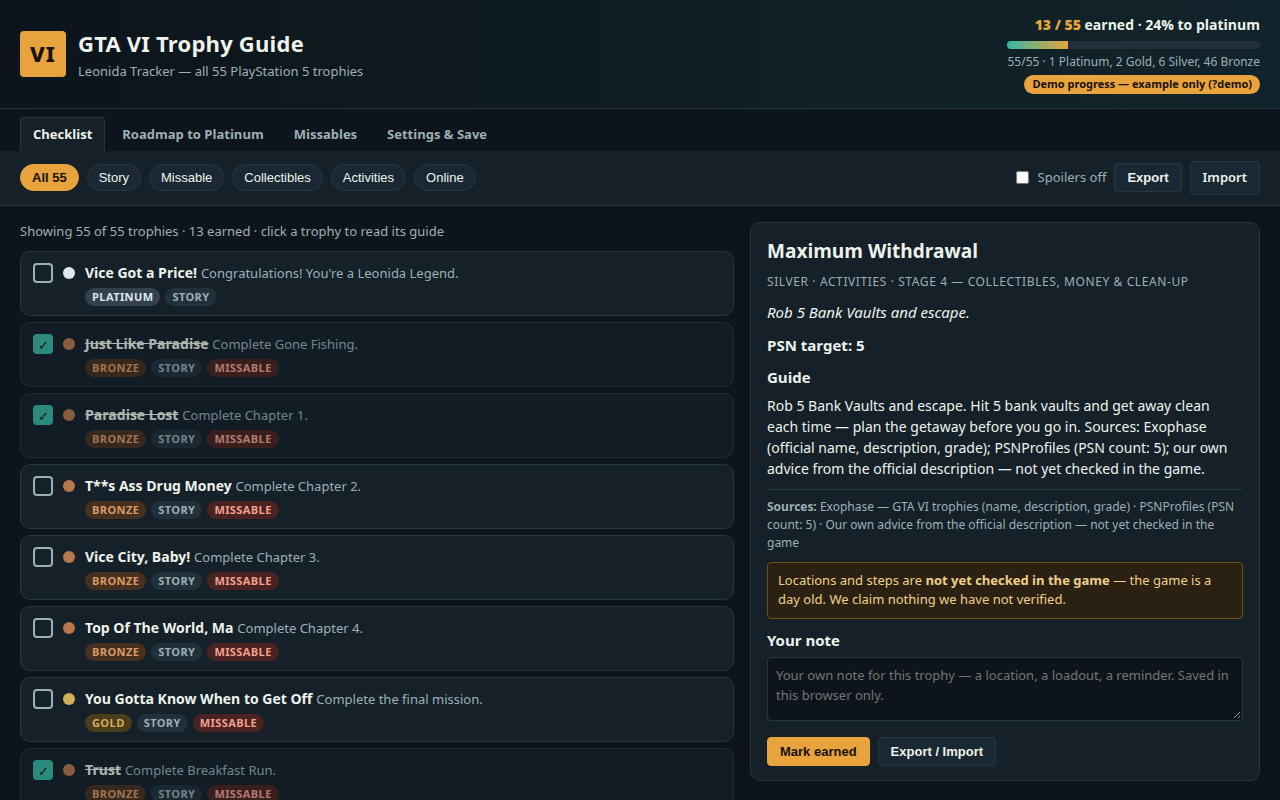
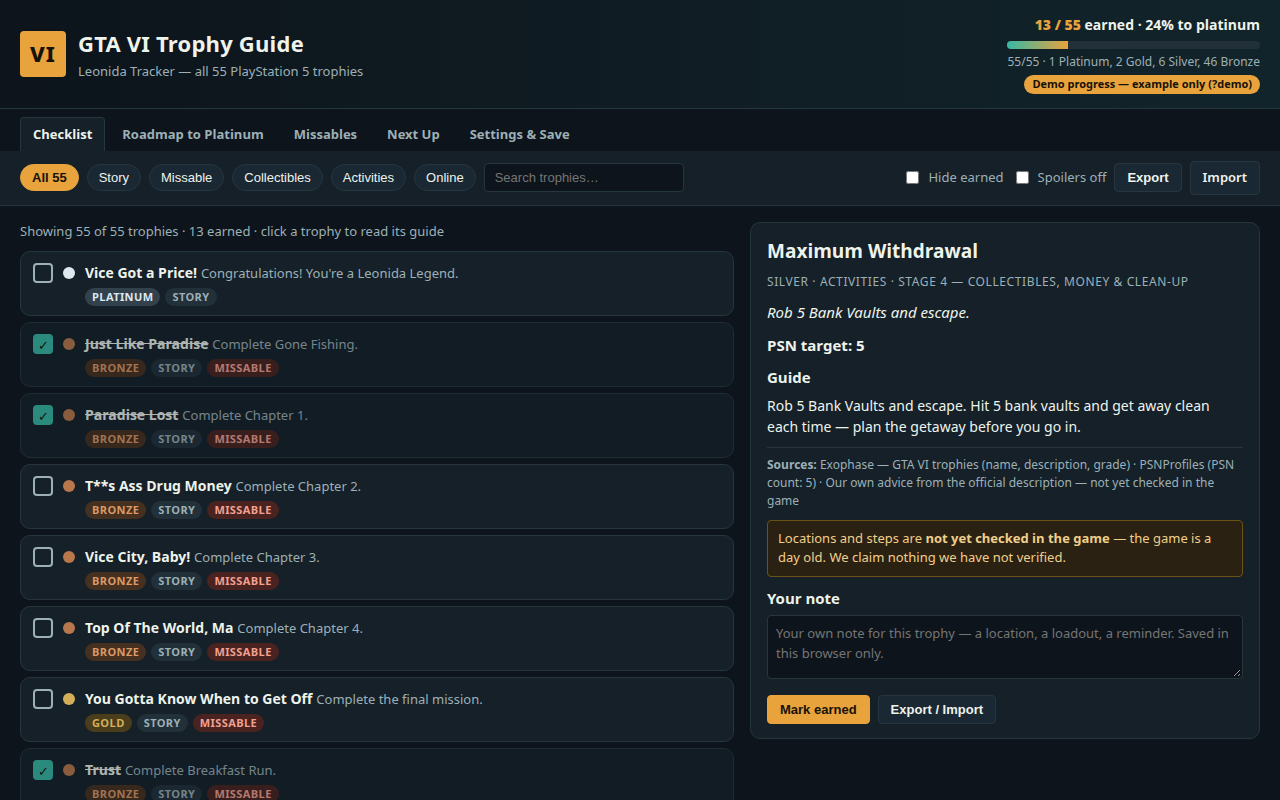
V5: search + Next-up planner + spoiler everywhere + guide polish
V3: detail pane shows guide once (inline Sources tail trimmed, dedicated
Sources line kept); spoiler masking applied to Missables rows and Roadmap
chips, not only the checklist.
V4: live search, Hide earned toggle, Next Up planner (roadmap order,
missable-first in stage) with per-stage progress.
V5: screenshots retaken for the final views (cover with search, missables
with spoiler on, detail without duplicated Sources); first load 14.8 KB
gzip-9.

diff --git a/app/js/main.js b/app/js/main.js
@@ -3,7 +3,9 @@
 import { loadTrophies } from './data.js';
 import { isDemo, loadNotes, loadProgress, loadSettings, saveNote, saveProgress, saveSettings } from './store.js';
 import { renderChecklistView } from './views/checklist.js';
+import { escapeHtml } from './views/detail.js';
 import { renderMissablesView } from './views/missables.js';
+import { renderPlannerView } from './views/planner.js';
 import { renderRoadmapView } from './views/roadmap.js';
 import { bindSettingsView, renderSettingsView } from './views/settings.js';
 
@@ -11,6 +13,7 @@ const NAV = [
   { hash: '#/', label: 'Checklist' },
   { hash: '#/roadmap', label: 'Roadmap to Platinum' },
   { hash: '#/missables', label: 'Missables' },
+  { hash: '#/planner', label: 'Next Up' },
   { hash: '#/settings', label: 'Settings & Save' },
 ];
 
@@ -45,6 +48,7 @@ function routeFromHash() {
   }
   if (hash === '#/roadmap') return 'roadmap';
   if (hash === '#/missables') return 'missables';
+  if (hash === '#/planner') return 'planner';
   if (hash === '#/settings') return 'settings';
   return 'checklist';
 }
@@ -69,6 +73,7 @@ function renderNav() {
     const active = (ctx.route === 'checklist' && item.hash === '#/')
       || (ctx.route === 'roadmap' && item.hash === '#/roadmap')
       || (ctx.route === 'missables' && item.hash === '#/missables')
+      || (ctx.route === 'planner' && item.hash === '#/planner')
       || (ctx.route === 'settings' && item.hash === '#/settings');
     return `<a href="${item.hash}" class="${active ? 'active' : ''}">${item.label}</a>`;
   }).join('');
@@ -83,7 +88,9 @@ function renderToolbar() {
   const chips = KINDS.map((k) => `<button class="chip ${k.key === 'missable' ? 'missable' : ''}" data-kind="${k.key}" aria-pressed="${ctx.settings.kind === k.key}">${k.label}</button>`).join('');
   bar.innerHTML = `
     ${chips}
+    <input class="search" id="search-box" type="search" placeholder="Search trophies…" value="${escapeHtml(ctx.settings.query || '')}" aria-label="Search trophies">
     <span class="spacer"></span>
+    <label class="toggle"><input type="checkbox" id="hide-earned" ${ctx.settings.hideEarned ? 'checked' : ''}> Hide earned</label>
     <label class="toggle"><input type="checkbox" id="spoiler-toggle" ${ctx.settings.spoiler ? 'checked' : ''}> Spoilers off</label>
     <button class="btn" id="export-btn">Export</button>
     <label class="btn" for="import-file" style="cursor:pointer">Import</label>
@@ -94,6 +101,24 @@ function renderToolbar() {
       ctx.onSettingsChange();
       render();
     });
+  });
+  const searchBox = document.getElementById('search-box');
+  searchBox.addEventListener('input', () => {
+    ctx.settings.query = searchBox.value;
+    saveSettings(ctx.settings);
+    render();
+    // Keep focus in the search box across the re-render.
+    const again = document.getElementById('search-box');
+    if (again) {
+      again.focus();
+      again.setSelectionRange(again.value.length, again.value.length);
+    }
+  });
+  const hideEarned = document.getElementById('hide-earned');
+  hideEarned.addEventListener('change', () => {
+    ctx.settings.hideEarned = hideEarned.checked;
+    ctx.onSettingsChange();
+    render();
   });
   const spoiler = document.getElementById('spoiler-toggle');
   spoiler.addEventListener('change', () => {
@@ -129,6 +154,7 @@ function render() {
   const view = document.getElementById('view');
   if (ctx.route === 'roadmap') view.innerHTML = renderRoadmapView(ctx);
   else if (ctx.route === 'missables') view.innerHTML = renderMissablesView(ctx);
+  else if (ctx.route === 'planner') view.innerHTML = renderPlannerView(ctx);
   else if (ctx.route === 'settings') {
     view.innerHTML = renderSettingsView(ctx);
     bindSettingsView(ctx, render);

diff --git a/app/js/views/planner.js b/app/js/views/planner.js
@@ -1,0 +1,49 @@
+// Next-up planner: what to do next, in roadmap order. Missable trophies come
+// first inside their stage — they are the ones that cannot wait.
+import { STAGES } from '../data.js';
+import { displayShortName } from '../filters.js';
+import { escapeHtml } from './detail.js';
+
+export function nextUp(trophies, earned, count = 5) {
+  const remaining = trophies.filter((t) => !earned.has(t.id));
+  remaining.sort((a, b) => {
+    if (a.stage !== b.stage) return a.stage - b.stage;
+    if (a.missable !== b.missable) return a.missable ? -1 : 1;
+    return a.id - b.id;
+  });
+  return remaining.slice(0, count);
+}
+
+export function renderPlannerView(ctx) {
+  const { trophies, earned, settings } = ctx;
+  const picks = nextUp(trophies, earned, 5);
+  const first = picks[0];
+  const rows = picks.map((t, i) => `
+    <button class="row" data-select="${t.id}">
+      <span class="check" aria-hidden="true">${i === 0 ? '▶' : ''}</span>
+      <span class="medal ${t.grade}" aria-hidden="true"></span>
+      <span class="body">
+        <span class="name">${escapeHtml(displayShortName(t, settings, earned))}</span>
+        <span class="desc">${escapeHtml(t.description)}</span>
+        <span class="tags">
+          <span class="tag grade-${t.grade}">${t.grade}</span>
+          <span class="tag">${t.kind}</span>
+          <span class="tag">Stage ${t.stage}</span>
+          ${t.missable ? '<span class="tag miss">Missable — do now</span>' : ''}
+        </span>
+      </span>
+    </button>`).join('');
+  const stageLines = STAGES.map((stage) => {
+    const inStage = trophies.filter((t) => t.stage === stage.n);
+    const done = inStage.filter((t) => earned.has(t.id)).length;
+    const pct = inStage.length ? Math.round((done / inStage.length) * 100) : 0;
+    return `<div class="card"><div class="stage-head"><h3>${escapeHtml(stage.title)}</h3><span><strong>${done}/${inStage.length}</strong> · ${pct}%</span></div><div class="stage-bar"><i style="width:${pct}%"></i></div></div>`;
+  }).join('');
+  return `
+    <h2>Next Up — your planner</h2>
+    ${first ? `<p class="nextup">Do next: <b>${escapeHtml(displayShortName(first, settings, earned))}</b> — ${escapeHtml(first.description)}${first.missable ? ' <span class="tag miss">Missable</span>' : ''}</p>` : '<p class="nextup"><b>Platinum earned — every trophy is done.</b></p>'}
+    <p style="color:var(--muted)">In roadmap order, missable trophies first inside each stage. ${earned.size} of 55 earned.</p>
+    <div class="list">${rows || '<p class="empty">Nothing left — platinum is yours.</p>'}</div>
+    <h2 style="margin-top:20px">Roadmap progress</h2>
+    ${stageLines}`;
+}

diff --git a/app/js/views/missables.js b/app/js/views/missables.js
@@ -2,10 +2,11 @@
 // the reason for each. Nothing here is invented: a trophy is missable when its
 // description ties it to a chapter, a named mission, a character strand's final
 // mission, or a one-time choice.
+import { displayDescription, displayName } from '../filters.js';
 import { escapeHtml } from './detail.js';
 
 export function renderMissablesView(ctx) {
-  const { trophies, earned } = ctx;
+  const { trophies, earned, settings } = ctx;
   const missables = trophies.filter((t) => t.missable);
   const done = missables.filter((t) => earned.has(t.id)).length;
   const rows = missables.map((t) => {
@@ -14,8 +15,8 @@ export function renderMissablesView(ctx) {
       <span class="check" aria-hidden="true">${isEarned ? '✓' : ''}</span>
       <span class="medal ${t.grade}" aria-hidden="true"></span>
       <span class="body">
-        <span class="name">${escapeHtml(t.name)}</span>
-        <span class="desc">${escapeHtml(t.description)}</span>
+        <span class="name">${escapeHtml(displayName(t, settings, earned))}</span>
+        <span class="desc">${escapeHtml(displayDescription(t, settings, earned))}</span>
         <span class="desc"><strong style="color:var(--text)">Why missable:</strong> ${escapeHtml(t.missable_reason)}</span>
         <span class="tags"><span class="tag grade-${t.grade}">${t.grade}</span><span class="tag miss">Missable</span><span class="tag">Stage ${t.stage}</span></span>
       </span>

diff --git a/app/js/views/detail.js b/app/js/views/detail.js
@@ -10,6 +10,9 @@ export function trophyDetailHtml(trophy, ctx) {
   const notes = loadNotes();
   const note = notes[trophy.id] || '';
   const earnedNow = earned.has(trophy.id);
+  // The guide text carries its sources inline; the pane shows them once, in
+  // the dedicated Sources line below, so the inline tail is trimmed here.
+  const guideBody = trophy.guide.split(' Sources: ')[0];
   return `
     <h2>${escapeHtml(displayName(trophy, settings, earned))}</h2>
     <p class="grade-line">${gradeLabel(trophy.grade)} · ${trophy.kind} · Stage ${trophy.stage} — ${escapeHtml(stageOf(trophy).title.replace(/^Stage \d+ — /, ''))}</p>
@@ -18,7 +21,7 @@ export function trophyDetailHtml(trophy, ctx) {
     ${trophy.missable ? `<p class="miss-box"><strong>Missable.</strong> ${escapeHtml(trophy.missable_reason)} Mission replay in GTA VI is unconfirmed, so treat this as do-it-now.</p>` : ''}
     ${hidden ? '' : `
       <h3>Guide</h3>
-      <p class="guide">${escapeHtml(trophy.guide)}</p>
+      <p class="guide">${escapeHtml(guideBody)}</p>
       <p class="sources"><strong>Sources:</strong> ${escapeHtml(trophy.sources)}</p>
       <p class="warn">Locations and steps are <strong>not yet checked in the game</strong> — the game is a day old. We claim nothing we have not verified.</p>
       <h3>Your note</h3>

diff --git a/app/js/views/roadmap.js b/app/js/views/roadmap.js
@@ -1,17 +1,18 @@
 // Roadmap to platinum: five stages in order, each with its trophies, progress,
 // and what the stage is for. Built from the official descriptions only.
 import { STAGES } from '../data.js';
+import { displayShortName } from '../filters.js';
 import { escapeHtml } from './detail.js';
 
 export function renderRoadmapView(ctx) {
-  const { trophies, earned } = ctx;
+  const { trophies, earned, settings } = ctx;
   const cards = STAGES.map((stage) => {
     const inStage = trophies.filter((t) => t.stage === stage.n);
     const done = inStage.filter((t) => earned.has(t.id)).length;
     const pct = inStage.length ? Math.round((done / inStage.length) * 100) : 0;
     const chips = inStage.map((t) => {
       const isDone = earned.has(t.id);
-      return `<a href="#/trophy/${t.id}" class="${isDone ? 'done' : ''} ${t.missable ? 'miss' : ''}">${escapeHtml(t.name)}${t.missable ? ' ⚠' : ''}</a>`;
+      return `<a href="#/trophy/${t.id}" class="${isDone ? 'done' : ''} ${t.missable ? 'miss' : ''}">${escapeHtml(displayShortName(t, settings, earned))}${t.missable ? ' ⚠' : ''}</a>`;
     }).join('');
     return `<section class="card">
       <div class="stage-head"><h2>${escapeHtml(stage.title)}</h2><span><strong>${done}/${inStage.length}</strong> · ${pct}%</span></div>

diff --git a/app/js/filters.js b/app/js/filters.js
@@ -28,6 +28,13 @@ export function displayName(trophy, settings, earned) {
     : trophy.name;
 }
 
+// Short form for chips and compact lists.
+export function displayShortName(trophy, settings, earned) {
+  return isHiddenBySpoiler(trophy, settings, earned)
+    ? 'Hidden story trophy'
+    : trophy.name;
+}
+
 export function displayDescription(trophy, settings, earned) {
   return isHiddenBySpoiler(trophy, settings, earned)
     ? 'Spoiler hidden until earned.'
